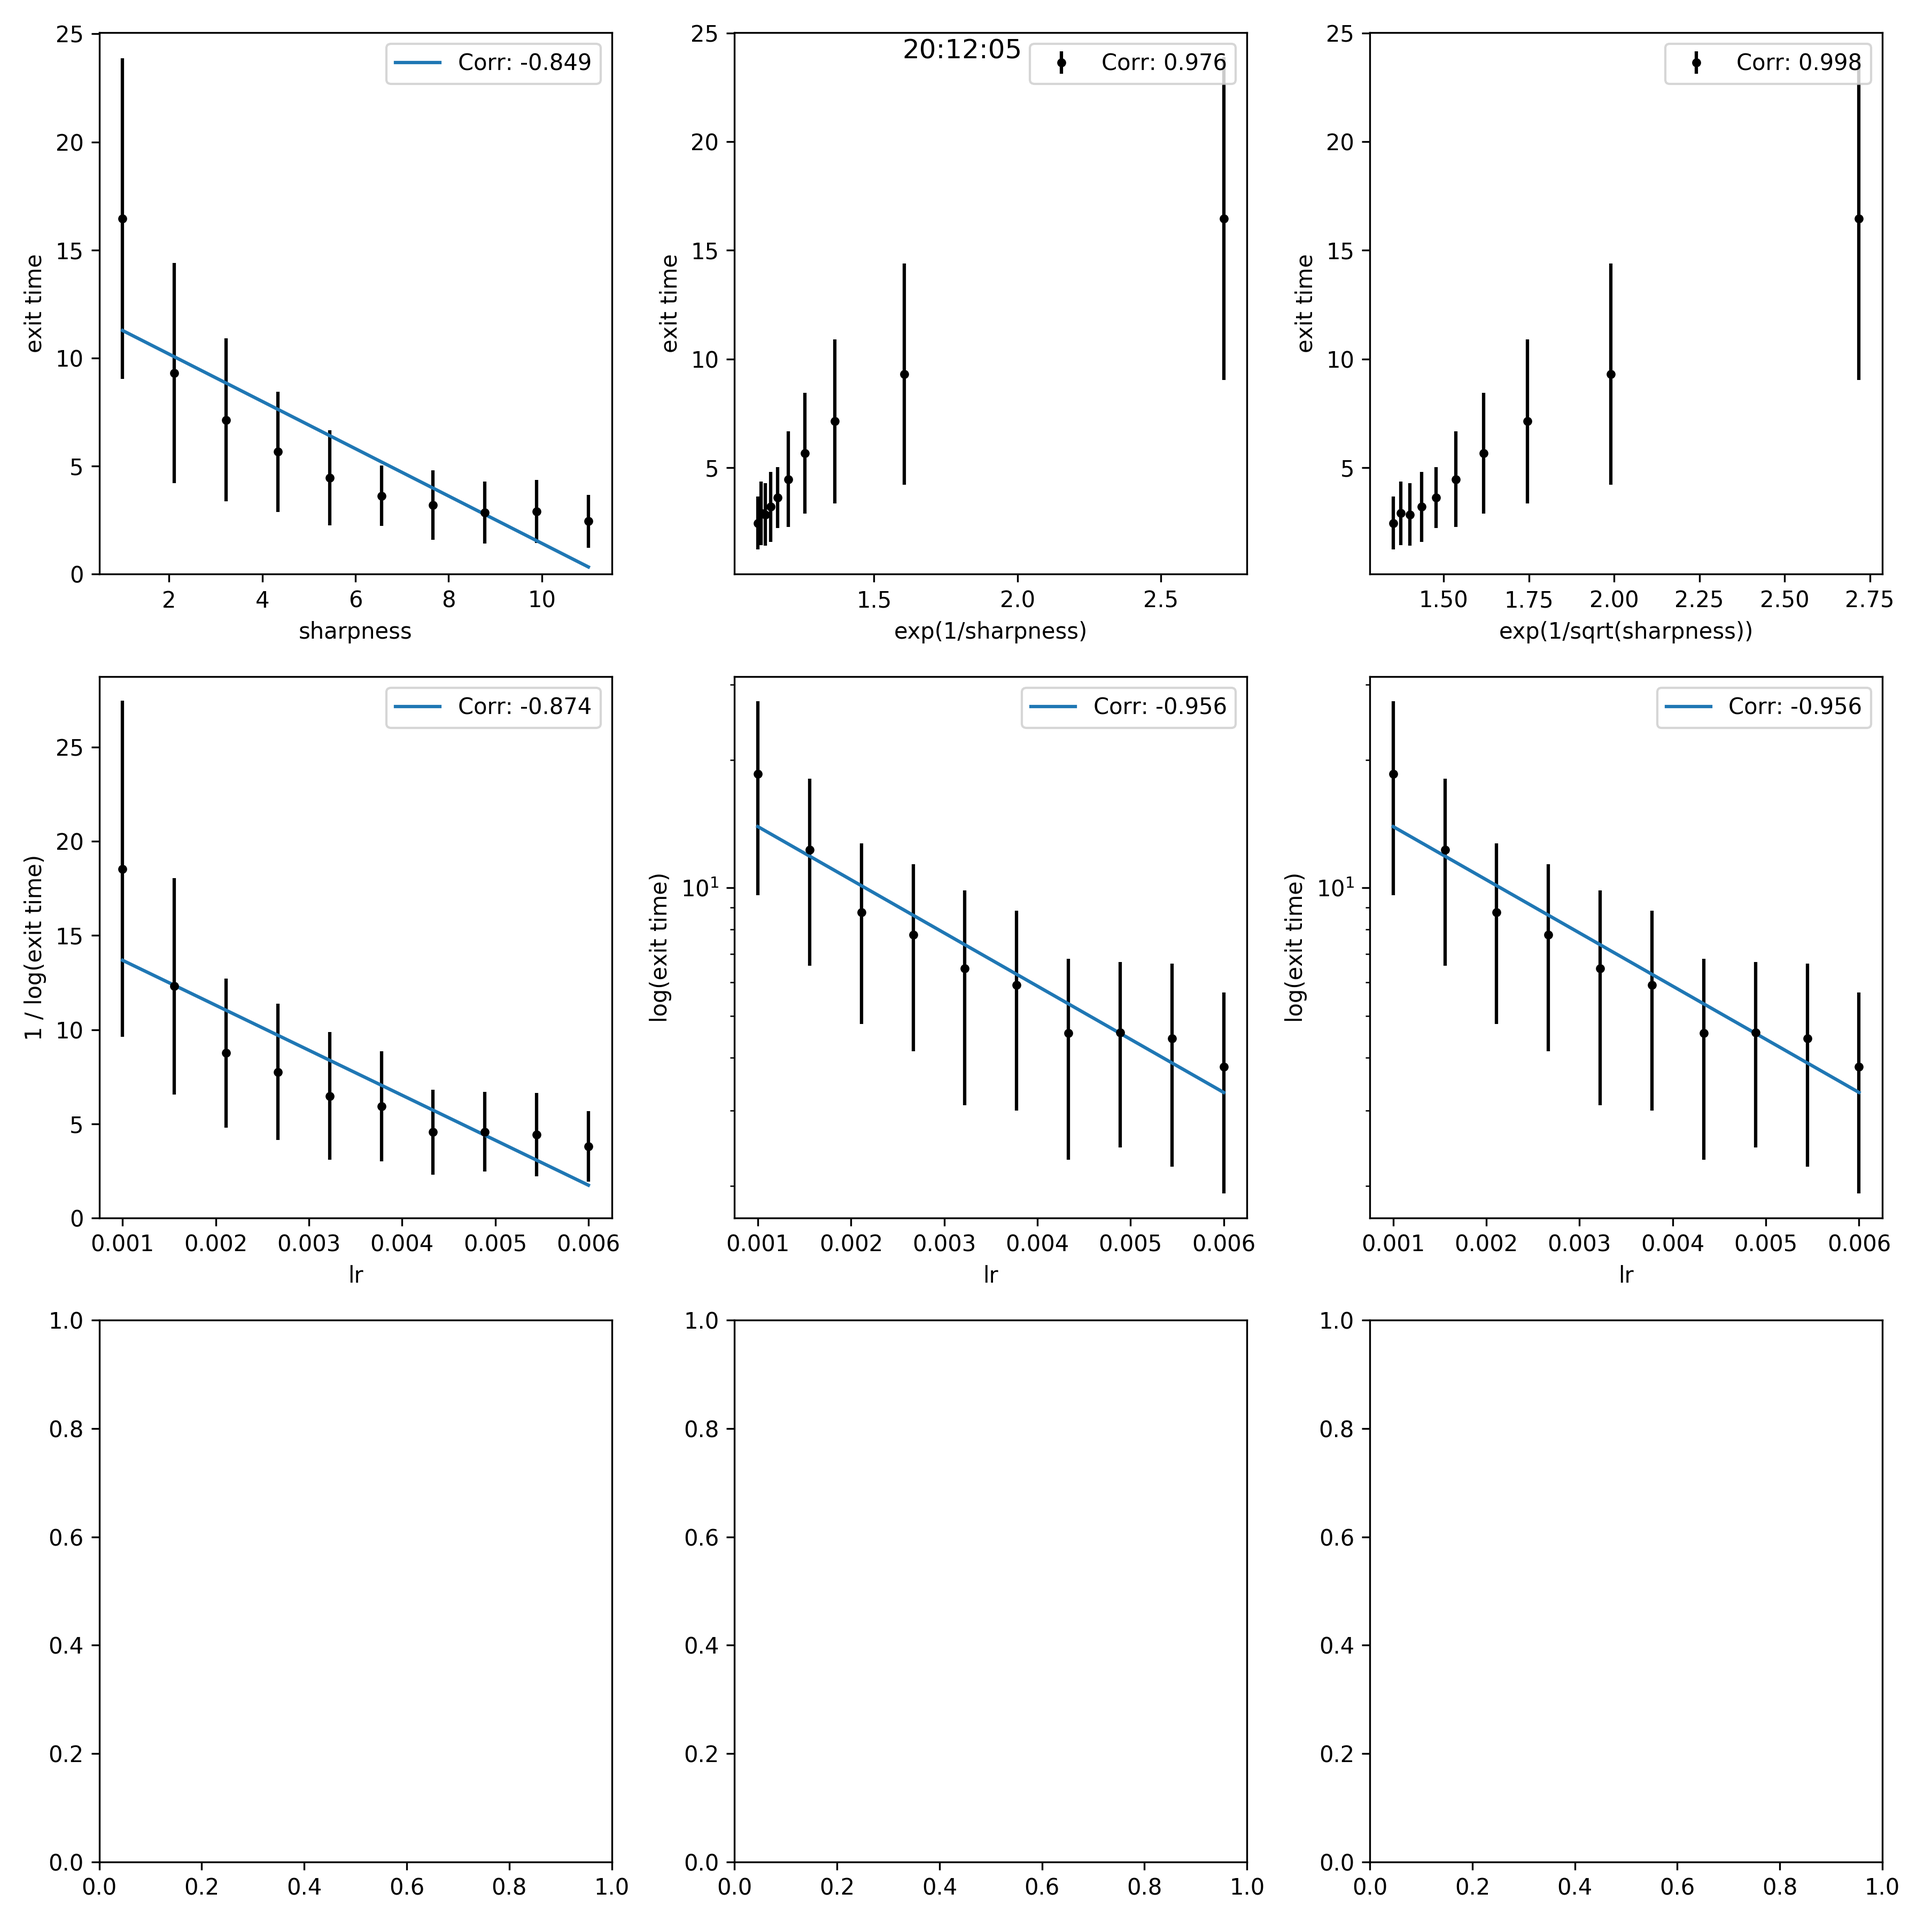
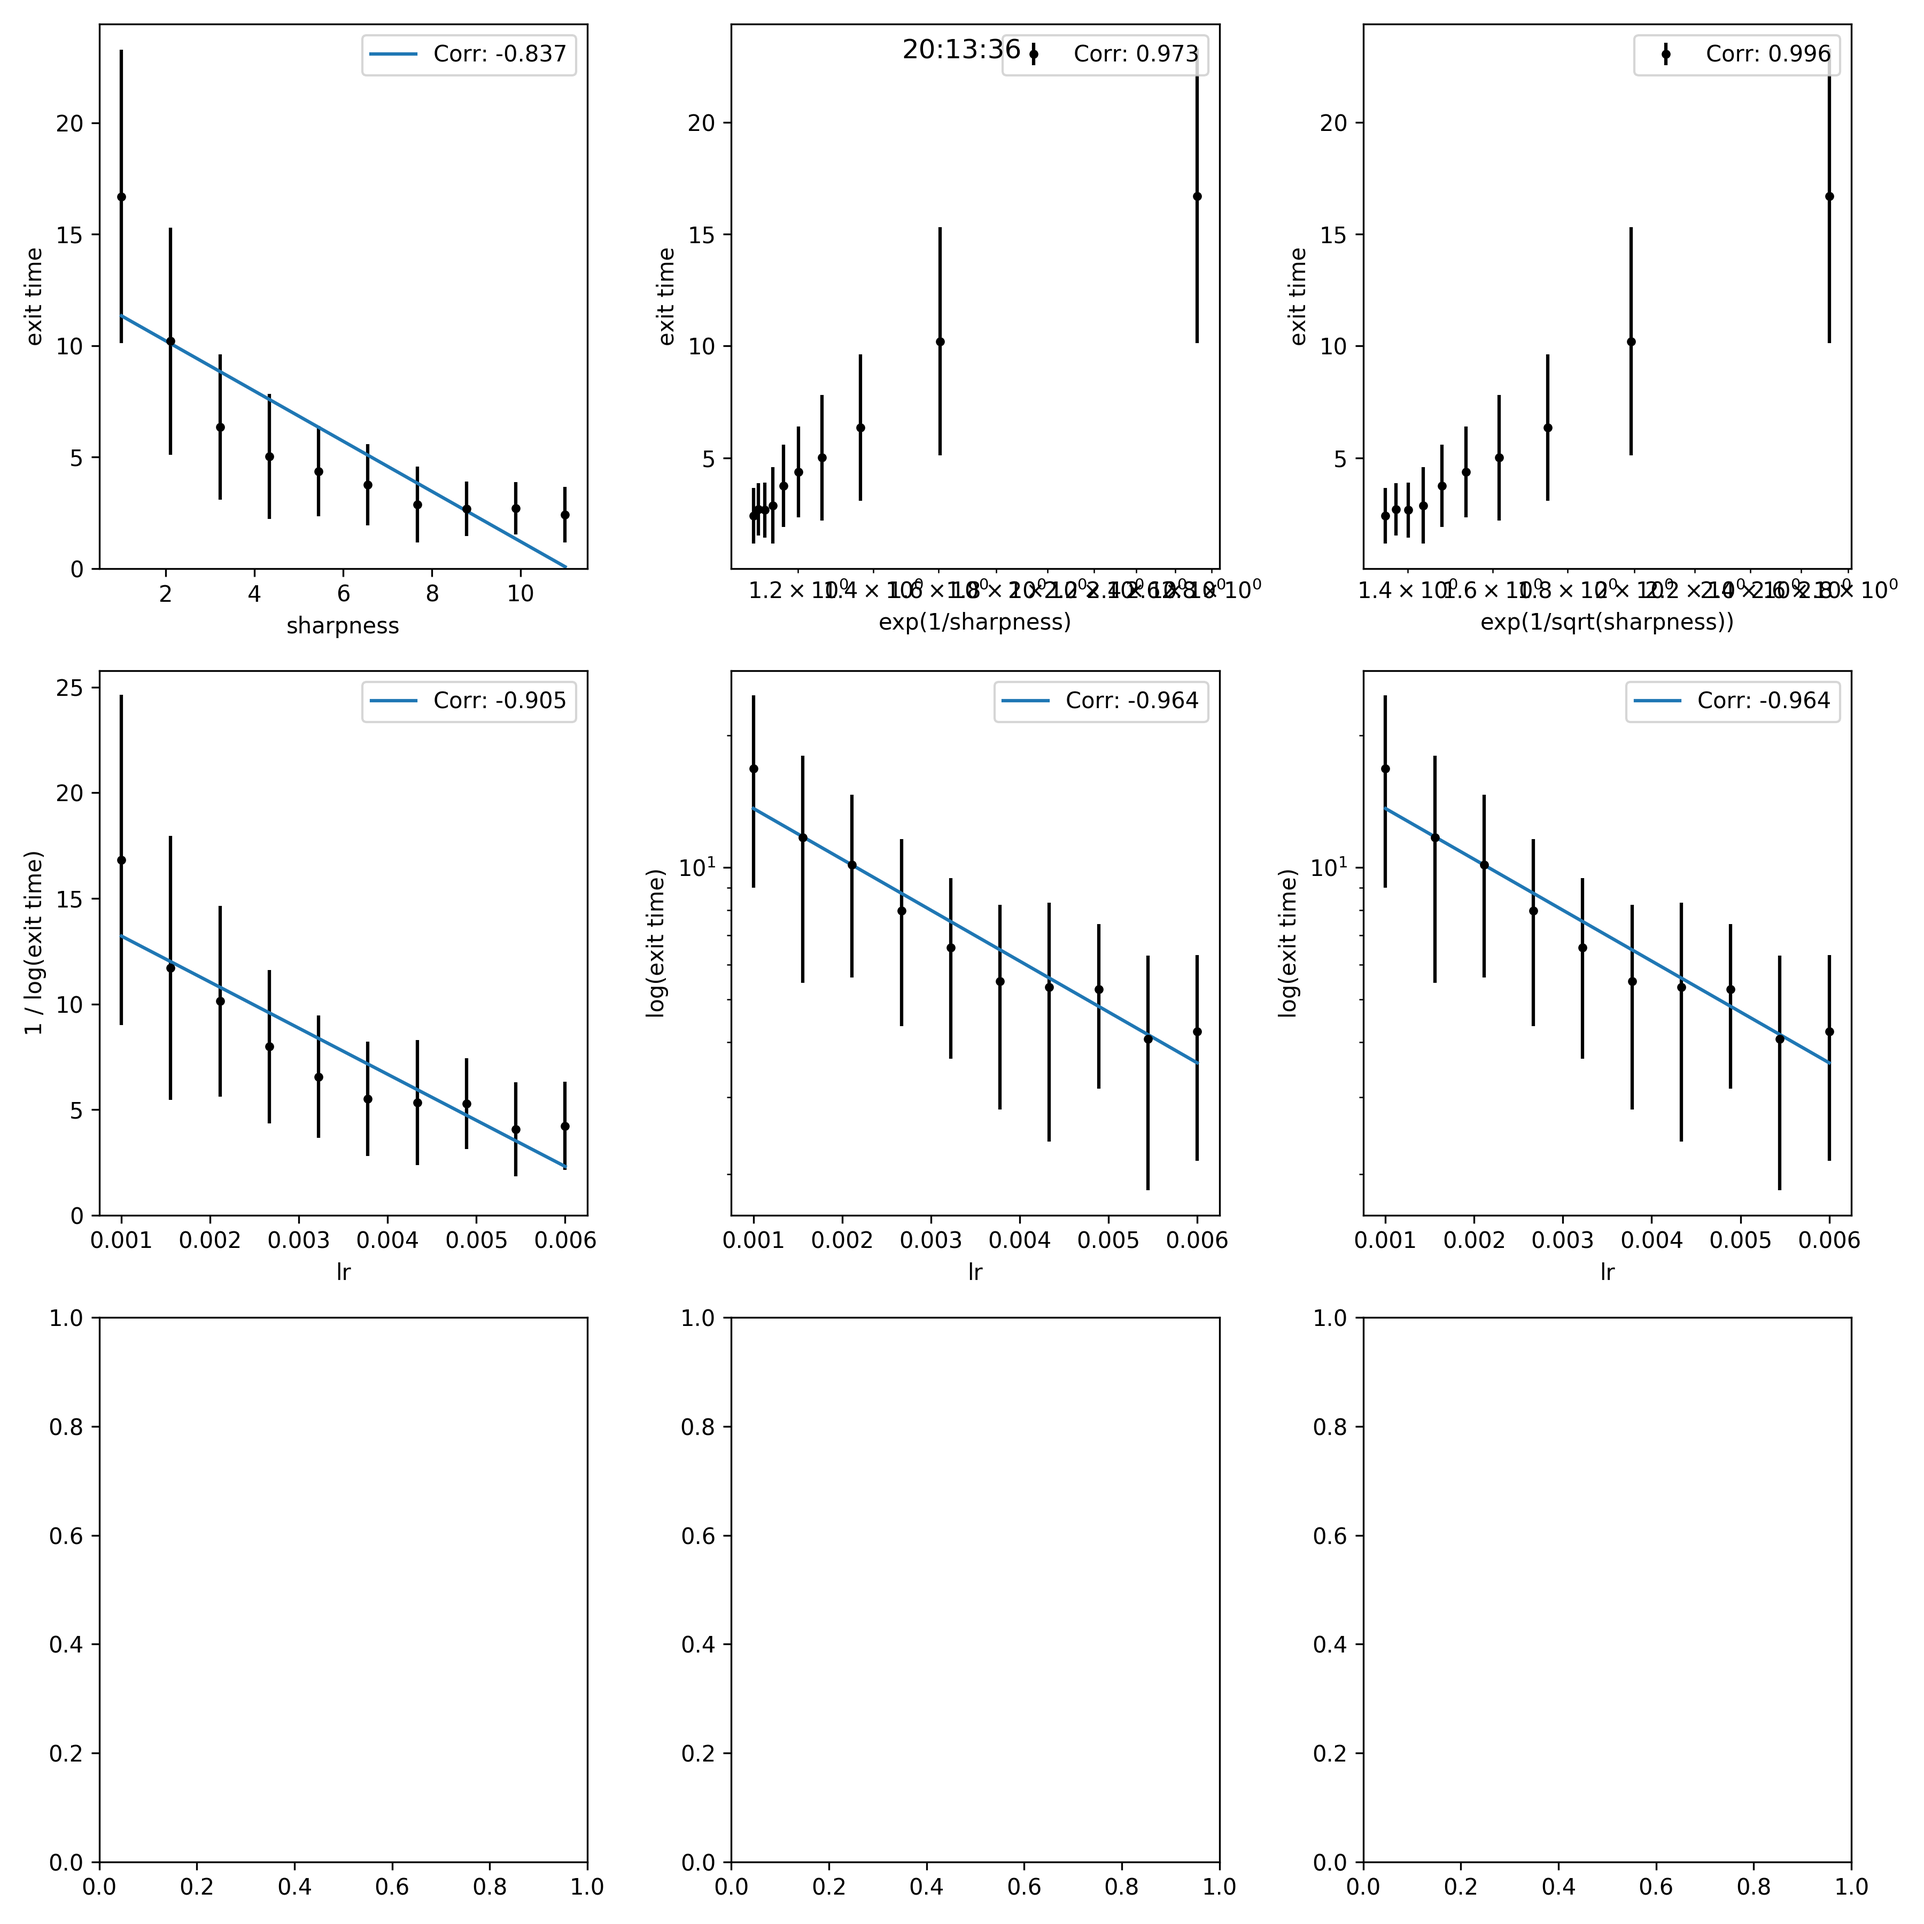
update

diff --git a/exit_time.py b/exit_time.py
@@ -172,7 +172,7 @@ def draw(sharpness_results, lr_results, batch_size_results):
     ax1[1].set_ylabel("exit time")
     ax1[1].errorbar(np.exp(1/x), y, yerr=std, fmt='.k') 
     # ax1[1].plot(np.exp(1/x), exp_m*np.exp(1/x) + exp_c)
-    # ax1[1].set_xscale("log") 
+    ax1[1].set_xscale("log") 
     ax1[1].legend([f'Corr: {exp_coeff:.3g}'])
     # # Log quad
     sqrt_exp_coeff, _ = stats.pearsonr(np.exp(1/np.sqrt(x)), y)
@@ -183,7 +183,7 @@ def draw(sharpness_results, lr_results, batch_size_results):
     ax1[2].set_ylabel("exit time")
     ax1[2].errorbar(np.exp(1/np.sqrt(x)), y, yerr=std, fmt='.k') 
     # ax1[1].plot(np.exp(1/x), exp_m*np.exp(1/x) + exp_c)
-    # ax1[2].set_xscale("log") 
+    ax1[2].set_xscale("log") 
     ax1[2].legend([f'Corr: {sqrt_exp_coeff:.3g}'])
     # Learning rate
     draw_subfig(ax2, *lr_results, "lr")
